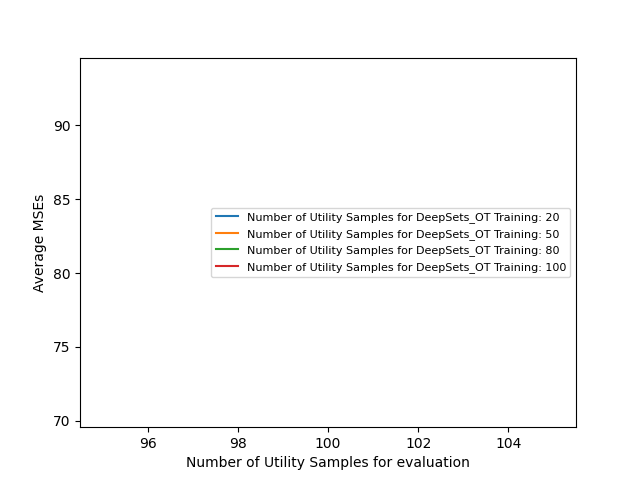
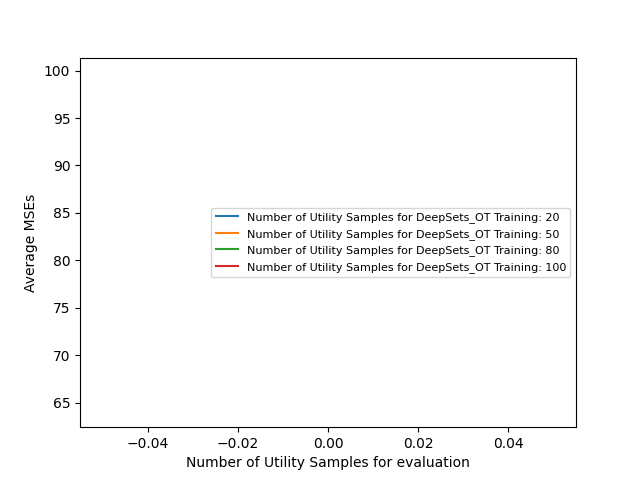
Adding some losses

diff --git a/read_losses_OT.py b/read_losses_OT.py
@@ -25,11 +25,12 @@ def read_loss(Net_trained, sample_size, dataset = 'CIFAR10'):
 
     average = sum(losses) / len(losses)
     stddev = statistics.stdev(losses)  # Calculate standard deviation
+    size = len(losses)
 
     print('The average is:', average)
     # print('The standard deviation is:', stddev)
 
-    return average, stddev
+    return average, stddev, size
 
 # for net_trained in [20,50,80,100]:
 #     print('For Net Trained with collect samples: ', net_trained)
@@ -41,17 +42,23 @@ average_losses = {}
 
 for net_trained in [20,50,80,100]:
     average_losses[net_trained] = []
-    # for sample_size in [10, 20, 50, 100]:
-    sample_size = 100
-    average, stddev = read_loss(Net_trained = net_trained, sample_size = sample_size)
+    average_cum = 0
+    sizes_cum = 0
+    for sample_size in [10, 20, 50, 100]:
+    # sample_size = 100
+        average, stddev, size = read_loss(Net_trained = net_trained, sample_size = sample_size)
+        average_cum += average * size
+        sizes_cum += size
+    average = average_cum/sizes_cum
     average_losses[net_trained].append(average)
 
-# Plot the average loss values
-for net_trained, losses in average_losses.items():
-    plt.plot([100], losses, label=f'Number of Utility Samples for DeepSets_OT Training: {net_trained}')
+print(average_losses)
+# # Plot the average loss values
+# for net_trained, losses in average_losses.items():
+#     plt.plot([10, 20, 50, 100], losses, label=f'Number of Utility Samples for DeepSets_OT Training: {net_trained}')
 
-plt.xlabel('Number of Utility Samples for evaluation')
-plt.ylabel('Average MSEs')
-plt.legend(fontsize = 8)
-plt.savefig('Average Loss vs. Sample Size for Dataset {}.png'.format(main_args.dataset))
-plt.show()
+# plt.xlabel('Number of Utility Samples for evaluation')
+# plt.ylabel('Average MSEs')
+# plt.legend(fontsize = 8)
+# plt.savefig('Average Loss vs. Sample Size for Dataset {}.png'.format(main_args.dataset))
+# plt.show()

diff --git a/NN_classification.py b/NN_classification.py
@@ -214,7 +214,24 @@ class SetTransformer_OT(nn.Module):
         else:
             return F.leaky_relu(self.backbone(torch.cat((self.dec(self.enc(X)).view(1,1), ot_distance.view(1,1)), dim = 1)))
     
-    
+
+
+import torch
+import torch.nn as nn
+import torch.optim as optim
+
+# Define the model
+class OT_Net(nn.Module):
+    def __init__(self, input_size = 1):
+        super(OT_Net, self).__init__()
+        self.fc1 = nn.Linear(input_size, 50)  # First fully connected layer
+        self.fc2 = nn.Linear(50, input_size)  # Second fully connected layer
+
+    def forward(self, x):
+        x = torch.relu(self.fc1(x))
+        x = self.fc2(x)
+        return x
+   
 
 
 #copy from Si Chen

diff --git a/OT_distance.py b/OT_distance.py
@@ -357,7 +357,7 @@ def deepset(samples, Epochs = 150):
     model.load_state_dict(torch.load('Net_{}_Sample_Size_{}_DeepSet.pth'.format(main_args.dataset, 100)))
     model.eval()
     criterion = nn.MSELoss()
-    optimizer = torch.optim.Adam(model.parameters())
+    optimizer = torch.optim.Adam(model.parameters(), lr = 1e-2)
     writer = SummaryWriter('runs/experiment_1')
     for epoch in range(Epochs):
         train_loss = 0
